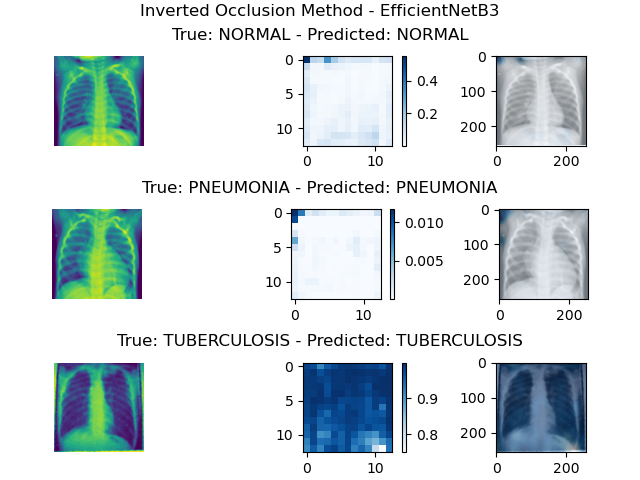
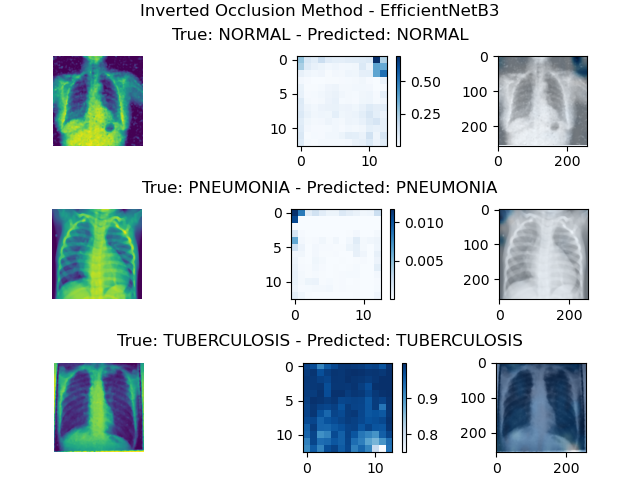
XAI images and SVM fold 3 and 4 results

diff --git a/XAI_GradCam.py b/XAI_GradCam.py
@@ -29,6 +29,7 @@ def display_gradcam(img, heatmap, emphasize=False, thresh=None):
     Returns:
     PIL.Image.Image: The image with the heatmap visualized.
     """
+
     def sigmoid(x, a, b, c):
         """
         Evaluate a sigmoid function at given input.
@@ -142,7 +143,7 @@ def GradCam(model, img_array, label, layer_name, eps=1e-8):
 if __name__ == '__main__':
 
     # Apply GradCam technique over some test images
-    image_indexes = [31, 30, 99]  # N, P, T
+    image_indexes = [4, 30, 99]  # N, P, T
     model_path = 'explainedModels/fold1-0.9776-1.0000-f_model.h5'
     filtered_input = True
     invert_black_bg = True
@@ -177,7 +178,7 @@ if __name__ == '__main__':
         title = "True: " + LABELS[np.argmax(label)] + " - Predicted: " + LABELS[np.argmax(pred)]
         subfig.suptitle(title)
         axs = subfig.subplots(nrows=1, ncols=2)
-        axs[0].imshow(image[0, :, :, :]/255)
+        axs[0].imshow(image[0, :, :, :] / 255)
         axs[0].axis('off')
         axs[1].imshow(result)
         axs[1].axis('off')

diff --git a/XAI_InvertedOcclusion.py b/XAI_InvertedOcclusion.py
@@ -94,13 +94,13 @@ def get_occluded_probabilities(img, predictor, index, patch_size=16, stride=1, s
 
 if __name__ == '__main__':
     # Apply Inverted Occlusion technique over some test images
-    image_indexes = [31, 30, 99]  # N, P, T
+    image_indexes = [4, 30, 99]  # N, P, T
     model_path = 'explainedModels/fold1-0.9776-1.0000-f_model.h5'
     pickle_model_path = 'explainedModels/svm.pkl'
     patch = 64
-    stride = 16
+    stride = 16  # 64 for EffNet
     filtered_input = True
-    pickle_model = True
+    pickle_model = False
     invert_black_bg = True
 
     if not pickle_model:

diff --git a/XAI_Lime.py b/XAI_Lime.py
@@ -98,11 +98,11 @@ def explanation_heatmap(lime_exp, exp_class):
 
 if __name__ == '__main__':
     # Apply Lime technique over some test images
-    image_indexes = [31, 30, 99]  # N, P, T
+    image_indexes = [4, 30, 99]  # N, P, T
     model_path = 'explainedModels/fold1-0.9776-1.0000-f_model.h5'
     pickle_model_path = 'explainedModels/svm.pkl'
     filtered_input = True
-    pickle_model = True
+    pickle_model = False
     invert_black_bg = True
 
     pred2explain = 0  # index of the label to be analyzed. 0 means the label with higher probability

diff --git a/XAI_Occlusion.py b/XAI_Occlusion.py
@@ -93,13 +93,13 @@ def get_occluded_probabilities(img, predictor, index, patch_size=16, stride=1, s
 
 if __name__ == '__main__':
     # Apply Occlusion technique over some test images
-    image_indexes = [31, 30, 99]  # N, P, T
+    image_indexes = [4, 30, 99]  # N, P, T
     model_path = 'explainedModels/fold1-0.9776-1.0000-f_model.h5'
     pickle_model_path = 'explainedModels/svm.pkl'
     patch = 64
     stride = 16
     filtered_input = True
-    pickle_model = True
+    pickle_model = False
     invert_black_bg = True
 
     if not pickle_model:

diff --git a/evaluate_SVM.py b/evaluate_SVM.py
@@ -11,7 +11,7 @@ from dataset_utils import make_list_of_patients, test_split, dataframe2lists, in
 
 # Evaluates SVM model and prints the classification report
 
-model = pickle.load(open('float_model/fold3-svm.pkl', 'rb'))
+model = pickle.load(open('explainedModels/fold4-svm.pkl', 'rb'))
 
 patients = make_list_of_patients()
 patients_train, patients_test = test_split(data=patients)

diff --git a/notes.md b/notes.md
@@ -13,3 +13,5 @@
 | SVM()                                   | filtering=true, invert_black_bg=true              | n.a.     | n.a.          | 0    | 256      | rbf    |       |        | N:1, P:1, T:19  |            | 0.9952 | 0.9159 | 0.9259<br/>(0.9392, 0.9509, 0.7956) |                                                              |
 | SVM()                                   | filtering=true, invert_black_bg=true              | n.a.     | n.a.          | 1    | 256      | rbf    |       |        | N:1, P:1, T:19  |            | 0.9927 | 0.9260 | 0.9252<br/>(0.9396, 0.9444, 0.8044) |                                                              |
 | SVM()                                   | filtering=true, invert_black_bg=true              | n.a.     | n.a.          | 2    | 256      | rbf    |       |        | N:1, P:1, T:19  |            | 0.9938 | 0.9147 | 0.9200<br/>(0.9349, 0.9436, 0.7850) |                                                              |
+| SVM()                                   | filtering=true, invert_black_bg=true              | n.a.     | n.a.          | 3    | 256      | rbf    |       |        | N:1, P:1, T:19  |            | 0.9934 | 0.9258 | 0.9222<br/>(0.9368, 0.9431, 0.7940) |                                                              |
+| SVM()                                   | filtering=true, invert_black_bg=true              | n.a.     | n.a.          | 4    | 256      | rbf    |       |        | N:1, P:1, T:19  |            | 0.9943 | 0.9233 | 0.9200<br/>(0.9350, 0.9446, 0.7829) |                                                              |

diff --git a/README.md b/README.md
@@ -17,10 +17,10 @@ AAIB_Assignment2022   # your WRK_DIR
 ├── AE_model
     ├── 0.0103f_model.h5
 ├── explainedModels
-├── XAI_outputs
+├── ChartsAndPlots
 ├── .py scripts
 ├── train_set.zip
-└── .py files
+└── .py scripts
 ```
 
 The project has been tested with tensorflow 2.4.1
